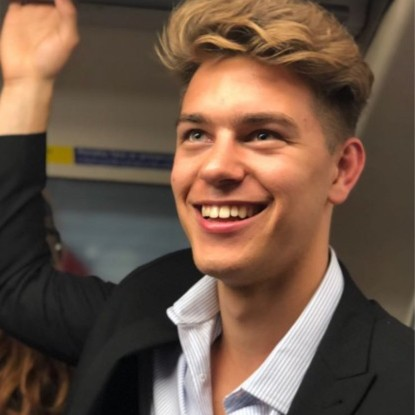
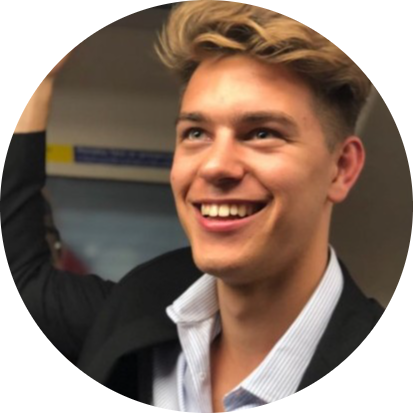
Added stylesheet with some basic CSS and changed image to be circular

diff --git a/FirstWebsite/index.html b/FirstWebsite/index.html
@@ -2,6 +2,8 @@
     <head>
         <meta charset="UTF-8">
         <title>Mitch's Website</title>
+        <link rel="stylesheet" href="css/styles.css">
+
     </head>
     <body>
         <table cellspacing="20">
@@ -12,7 +14,7 @@
                     <p>Hello, my name is Mitchel. I am 25 living in London. I am learning how to code through this course on Udemy so that I can finally get job.</p></td>
             </tr>
         </table>
-        <hr size="3" noshade>
+        <hr>
         <h3>Home</h3>
         <p> I studied at the following schools:
             <ul>
@@ -30,26 +32,31 @@
                 </tr>
             </thead>
             <tr>
-                <td>2022-2023</td>
+                <td>2022</td>
                 <td>Ran my own tech crypto consulting company.</td>
             </tr>
             <tr>
                 <td>2021</td>
-                <td>Part completed Msc in AI.</td>
+                <td>Part completed Msc in AI at KCL.</td>
             </tr>
         </table>
         <h3>Skills</h3>
         <table>
             <tr>
-                <td>Python ***</td>
-                <td>HTML **</td>
+                <td>Python</td>
+                <td>⭐⭐⭐</td>
+                <td>HTML</td>
+                <td>⭐⭐</td>
             </tr>
             <tr>
-                <td>CSS **</td>
-                <td>Javascript **</td>
+                <td>CSS</td>
+                <td>⭐⭐⭐</td>
+                <td>Javascript</td>
+                <td>⭐⭐</td>
+
             </tr>
         </table>
-        <hr size="3" noshade>
+        <hr>
         <a href="hobbies.html">My Hobbies</a>
         <br>
         You can contact me through my <a href="contact.html">Contact Page</a>

diff --git a/FirstWebsite/hobbies.html b/FirstWebsite/hobbies.html
@@ -3,13 +3,14 @@
 <head>
     <meta charset="UTF-8">
     <title>My Hobbies</title>
+    <link rel="stylesheet" href="css/styles.css">
 </head>
 <body>
         <img src="Icon.jpeg" alt="Mitch's Logo" width="300" height="300"/>
         <h1>Mitchel Shephard</h1>
         <p><em>Dev learning <strong>how to code</strong></em></p>
         <p>Hello, my name is Mitchel. I am 25 living in London. I am learning how to code through this course on Udemy so that I can finally get job.</p>
-        <hr size="3" noshade>
+        <hr>
         <h3>Hobbies</h3>
         <p> My hobbies are the following:
             <ol>

diff --git a/FirstWebsite/css/styles.css b/FirstWebsite/css/styles.css
@@ -1,0 +1,19 @@
+body {
+    background-color: #EAF6F6;
+}
+
+hr {
+    border-style: dotted none none;
+    border-color: grey;
+    border-width: 5px;
+    height: 0px;
+    width: 5%;
+}
+
+h1 {
+    color: #66BFBF;
+}
+
+h3 {
+    color: #66BFBF;
+}

diff --git a/FirstWebsite/contact.html b/FirstWebsite/contact.html
@@ -3,6 +3,7 @@
 <head>
     <meta charset="UTF-8">
     <title>Contact Me</title>
+    <link rel="stylesheet" href="css/styles.css">
 </head>
 <body>
         <h3>Contact Me</h3>
